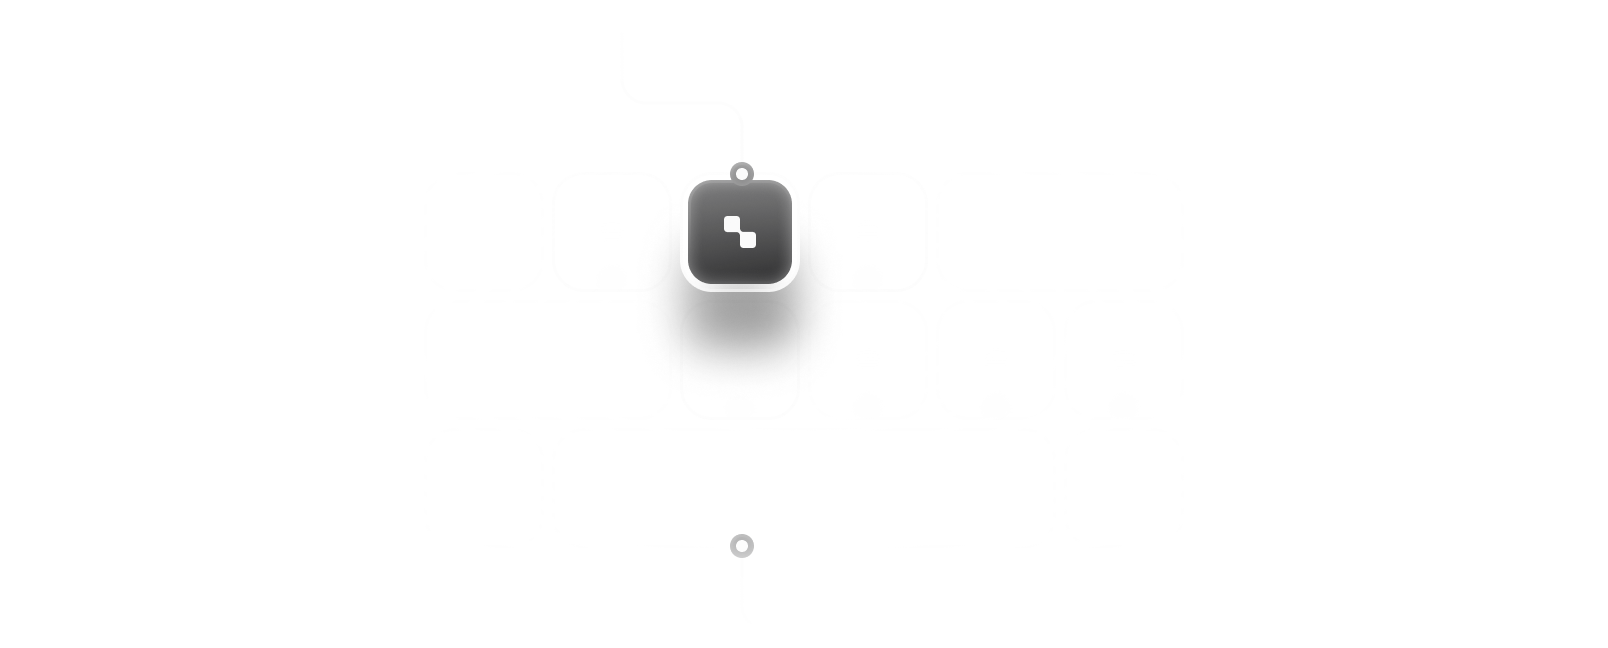
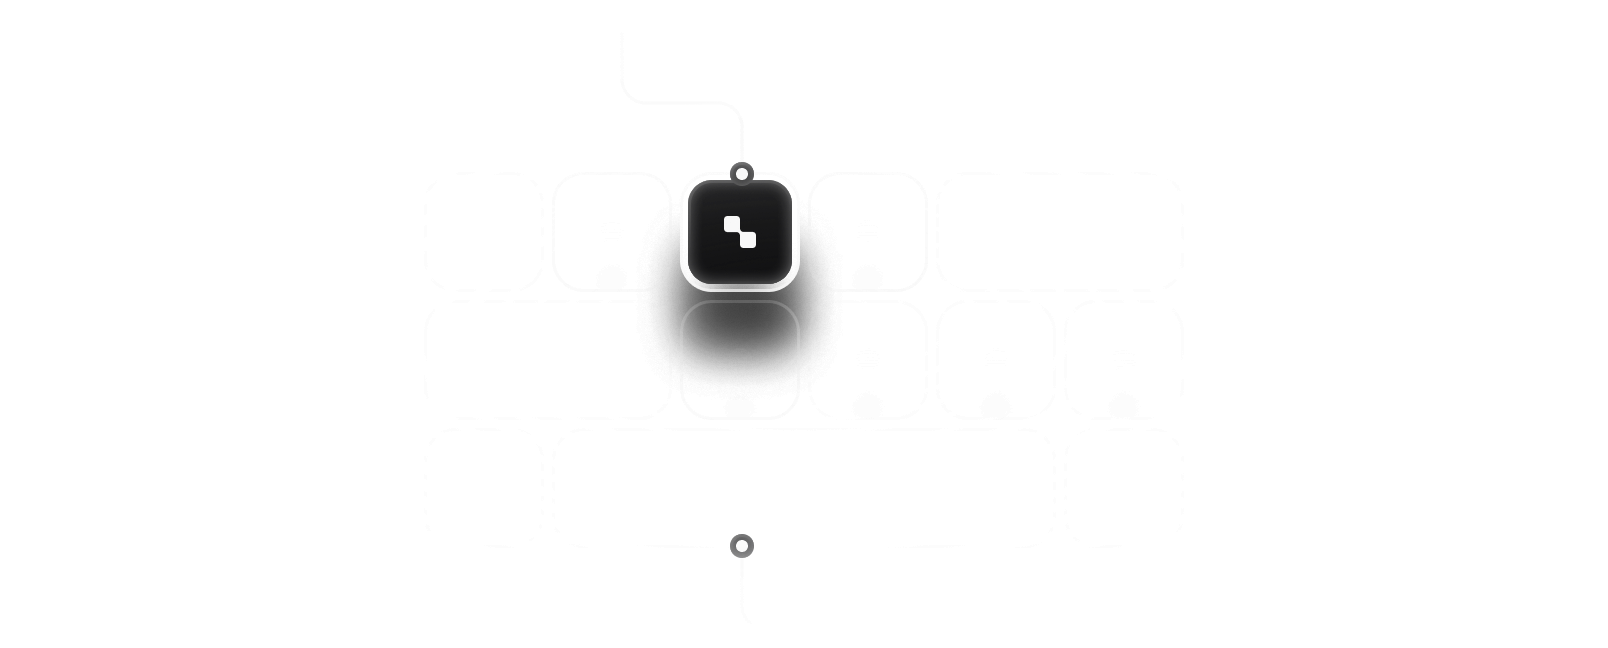
Finish up about section

Changed region(s): [[0.4042, 0.2469, 0.5286, 0.5864], [0.4353, 0.8333, 0.4664, 0.8642]]

diff --git a/src/sections/about.jsx b/src/sections/about.jsx
@@ -28,7 +28,7 @@ const About = () => {
             />
             <div>
               <p className="grid-headtext">Hi, I&apos;m Denitsa</p>
-              <p className="grid-subtext">
+              <p className="grid-subtext mb-3">
                 With 3 years of experience, I have honed my skills in front-end
                 and backend development, with a focus on new web technologies.
               </p>
@@ -41,11 +41,11 @@ const About = () => {
             <img
               src="/assets/grid2.png"
               alt="grid-2"
-              className="w-full h-fit sm:w-[276px] mx-auto object-contain"
+              className="h-fit w-full max-md:max-w-[330px] max-sm:w-full mx-auto object-contain"
             />
             <div>
               <p className="grid-headtext">Tech Stack</p>
-              <p className="grid-subtext">
+              <p className="grid-subtext mb-3">
                 I specialize in JavaScript and TypeScript, particularly within
                 the React and Next.js ecosystems. Additionally, I have
                 experience working with backend technologies like C# with
@@ -85,7 +85,7 @@ const About = () => {
               <Button
                 name="Contact Me"
                 isBeam
-                containerClasses="w-full mt-10"
+                containerClasses="w-full mt-10 mb-3"
               />
             </div>
           </div>
@@ -96,11 +96,11 @@ const About = () => {
             <img
               src="/assets/grid3.png"
               alt="grid-3"
-              className="w-full sm:h-[266px] h-fit object-contain"
+              className="w-full h-full max-h-[220px] object-contain"
             />
             <div>
               <p className="grid-headtext">My Passion for Coding</p>
-              <p className="grid-subtext">
+              <p className="grid-subtext mb-3">
                 Coding is more than just a profession—it&apos;s a way of life
                 for me. I&apos;m passionate about solving problems and building
                 things through code. I&apos;m constantly exploring new projects,
@@ -116,7 +116,7 @@ const About = () => {
             <img
               src="/assets/grid4.png"
               alt="grid-4"
-              className="w-full h-fit md:h-[126px] sm:h-[276px] sm:object-top object-cover"
+              className="flex max-h-[220px] h-full object-contain"
             />
 
             <div className="space-y-2">
@@ -131,7 +131,7 @@ const About = () => {
                   src={hasCopied ? '/assets/tick.svg' : '/assets/copy.svg'}
                   alt="copy"
                 />
-                <p className="lg:text-2xl md:text-xl font-medium text-white text-gray_gradient">
+                <p className="lg:text-2xl md:text-xl font-medium text-white text-gray_gradient mb-3">
                   deni9309@gmail.com
                 </p>
               </div>

diff --git a/src/components/night-owls-desk.jsx b/src/components/night-owls-desk.jsx
@@ -1,28 +1,20 @@
 import React, { useRef } from 'react'
 import { useGLTF, useAnimations, useTexture } from '@react-three/drei'
-import * as THREE from 'three'
 
 export default function NightOwlsDesk(props) {
   const group = useRef()
   const { nodes, materials, animations } = useGLTF(
     '/models/the_night_owls_desk.glb',
   )
-  const { actions } = useAnimations(animations, group)
 
   const woodTexture = useTexture('textures/desk/wood.png')
-  const keyboardTexture = useTexture('textures/desk/keyboard.png')
   const laptopTexture = useTexture('textures/desk/laptop.png')
-  const blackTexture = useTexture('textures/desk/black.png')
-  const monitorTexture = useTexture('textures/desk/monitor.png')
   const mugTexture = useTexture('textures/desk/mug.png')
-  const cpuTexture = useTexture('textures/desk/cpu.png')
   const glossyTexture = useTexture('textures/glossy.png')
   const brownTexture = useTexture('textures/brown-surface.png')
   const screenTexture = useTexture('textures/desk/screen2.png')
-
   const leatherTexture = useTexture('textures/desk/leather.png')
-  const plasticTexture = useTexture('textures/desk/plastic.png')
-
+ 
   return (
     <group ref={group} {...props} dispose={null}>
       <group name="Sketchfab_Scene">

diff --git a/src/constants/index.js b/src/constants/index.js
@@ -248,8 +248,8 @@ export const myProjects = [
 
 export const calculateSizes = (isSmall, isMobile, isTablet) => {
   return {
-    deskScale: isSmall ? 0.129 : isMobile ? 0.15 : 0.2,
-    deskPosition: isMobile ? [0, -1.5, 0] : [-1.5, -2, 0],
+    deskScale: isSmall ? 0.110 : isMobile ? 0.15 : 0.2,
+    deskPosition: isMobile ? [-0.4, -1.5, 0] : [-1.5, -2, 0],
 
     // deskScale: isSmall ? 0.05 : isMobile ? 0.06 : 0.065,
     // deskPosition: isMobile ? [0.5, -4.5, 0] : [0.25, -5.5, 0],

diff --git a/src/index.css b/src/index.css
@@ -44,7 +44,7 @@ body {
 
   /* button component */
   .btn {
-    @apply flex gap-4 items-center justify-center cursor-pointer p-3 rounded-md bg-black-300 transition-all active:scale-95 text-white mx-auto;
+    @apply flex gap-4 border border-black-300 items-center justify-center cursor-pointer p-3 rounded-md bg-black-300 transition-all active:scale-95 text-white mx-auto hover:border-green-500/20;
   }
 
   .btn-ping {

diff --git a/src/components/hero-camera.jsx b/src/components/hero-camera.jsx
@@ -11,7 +11,7 @@ const HeroCamera = ({ children, isMobile }) => {
     if (!isMobile) {
       easing.dampE(
         groupRef.current.rotation,
-        [-state.pointer.y / 10, state.pointer.x / 5, 0],
+        [-state.pointer.y / 3, state.pointer.x / 5, 0],
         0.25,
         delta,
       )
